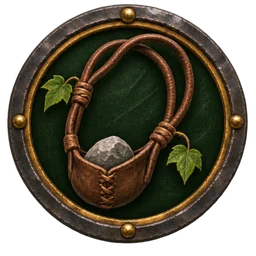
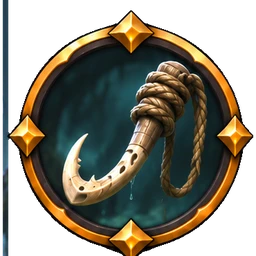
La Brecha: iconos del anzuelo, la cuerda y los ojos para Gollum
Claude-Session: https://claude.ai/code/session_016LDX8tPK4hmFFGShDH38QJ

diff --git a/CLAUDE.md b/CLAUDE.md
@@ -211,7 +211,7 @@ Juego web privado para 9 amigos (Arturo, Porru, Adrián, Carlos, Fer, Edo, Rodri
 - ATRÁS EN LA APP (16/11): MainActivity ya no usa el historial: pregunta a `window.brechaAtras()` (también con OnBackInvokedCallback en Android 13+); en partida o sala sale «¿Salir de la partida?», con una ventana abierta la cierra y en el menú pregunta «¿Salir de La Brecha?». Hay que REINSTALAR la APK.
 - DAÑO FÍSICO Y MÁGICO (16/11, como el LoL): cada héroe tiene `arm` (armadura) y `rm` (resistencia mágica) que crecen +3 / +1,5 por nivel; el daño se reduce ×100/(100+defensa) en `dana` (tipo `mag` → rm, `pura` → nada, lo demás → arm). Habilidades con `mag: true` (todas las de Gandalf) hacen tipo `mag` y crecen con `poder`/160 en vez de con el daño. Objetos nuevos: Manto de Lórien (rm), Tomo de Rivendel (poder), Báculo de los Istari, Narya, Velo de Galadriel; yelmo/escudo/mithril dan armadura en vez de `reduc`. Iconos de los objetos de magia provisionales (los de las habilidades de Gandalf). MANÁ (16/11, pedido de Arturo: «tiene que desaparecer con las habilidades»; antes se había dejado sin maná): cada héroe tiene `mana`/`crecM` en `HEROES` y cada habilidad su coste `mn` (referencia Lux y Darius); `stats()` da `mana` y `rmana` (3 + 0,3 por nivel al segundo; +12 % del máximo por segundo en la fuente; lleno al reaparecer; la Savia del huorn da más; las reliquias del Duelo devuelven un 20 %). `usaHab` no lanza sin maná y los bots lo respetan. Tomo de Rivendel, Báculo y Narya dan maná. En la foto van `mana` y `manaMax` (campos 38-39 de la fila del héroe). En pantalla: barra azul bajo la vida de cada héroe (`.bv .mn`), botón azulado si no llega (`.sinMana`) y aviso «No tienes maná suficiente». Prueba de equilibrio entre bots con la simulación del servidor: `node /tmp/t_bal.mjs A B n` (los bots casi no gastan el maná; a una persona que lance todo seguido se le acaba en unos 30 s). El botón de ataque de Gandalf (`ui/at_gandalf.webp`) venía con fondo blanco y cortado por la derecha: rehecho por ChatGPT el 16/11 (`tools/vado/pack18/at_gandalf_v2.png`, de frente y entero). Coste por rango como en el LoL (`costeMn(tipo, k, rk)`: básicas +10 % por rango, definitiva fija). Maná en FUCSIA (pedido de Arturo). `#vital` abajo en el centro: tu vida con números (roja y latiendo por debajo del 30 %) y tu maná; tu barra sobre la cabeza va más grande y con filo dorado (`.bv.yo`). PACK VADO 22 (16/11, originales en `tools/vado/pack22`): botella de maná (`ui/mana_vacia.webp` debajo y `ui/mana_llena.webp` encima, que se destapa de abajo arriba con `clip-path` entre `BOT_Y0` 39,7 % y `BOT_Y1` 87 %, medidos en el dibujo; número de maná sobre la botella; halo fucsia por debajo del 12 %) y marco de la barra de vida (`ui/vida_marco.webp`, proporción 4,88; la barra va en el hueco `.vH`: 13,6 %–86,3 % de ancho y 33,5 %–66,5 % de alto). El líquido no se mueve (dos imágenes fijas). Equilibrio entre bots (6 duelos por cruce, 16/11): orco 1-5 jinete y 0-6 enano, gandalf 6-0 enano, 1-5 elfo, 3-3 jinete y hobbit: el orco está flojo.
 - PARTIDA GUIADA (16/11, pedido de Arturo): botón `#bGuia` en el menú (etiqueta NUEVO hasta completarla, `vado.guia`). Es un Duelo contra la máquina con el Jinete, sin pantalla de elegir héroe, y el héroe rival pega un 45 % a héroes (`S.facil`, en `dana`). Cartel `#guia` con 9 pasos (`GUIA_PASOS`: moverse, aprender con el +, lanzar, maná, rematar 3 soldados, torre, BASE y Armería, curarse, cómo se gana); cada paso se cumple haciéndolo (`ok`) o por tiempo (`seg`); aro verde sobre el botón que toca (`guiaOjo`, clase `.guiaOjo`); «Saltar» la quita. `guiaPaso(v)` se llama desde `hud()`. Prueba: `/tmp/t_guia.py`. La tarjeta del Duelo ya no dice «2 derribos o la primera torre».
-- GOLLUM (16/11) = Rengar: Q `salto` Mordisco, W `suerte` ¡Mi tesoro!, E `linea` que aturde (Cuerda élfica), R `invis` Sombras de Moria; papel Asesino. MODELO 3D: `modelos/gollum.glb` = Rastrero de las Ciénagas (Pack Vado 24 WORK, 16/11, original en `tools/vado/pack24`; 41 huesos del hobbit KayKit, 9 clips, nodo `escala_140cm`). Siguen PROVISIONALES: retrato `r_hobbit` y copias de las imágenes del hobbit con nombre `gollum` (`splash_gollum`, `at_gollum`, `h_gollum_*`); ChatGPT se negó a dibujar a Gollum (parecido con contenido de terceros): el arte y el modelo son de una criatura ORIGINAL, el Rastrero de las Ciénagas (Pack Vado 24). El ART que llegó (16/11) era el Gollum de las películas: NO se usa; falta pedirlo otra vez como el Rastrero, y dentro del juego se sigue llamando «Gollum» (decisión de Arturo, 16/11). Entre bots pierde casi todo (2-2 contra el orco, 0-4 contra los demás, aun subido): los bots no juegan bien a un asesino de cerca; sin la pasiva de Rengar (saltar desde la hierba). La partida guiada lleva el medallón de Gamling (`ui/guia_gamling.webp`, original `tools/vado/pack23/gamling.png`).
+- GOLLUM (16/11) = Rengar: Q `salto` Mordisco, W `suerte` ¡Mi tesoro!, E `linea` que aturde (Cuerda élfica), R `invis` Sombras de Moria; papel Asesino. MODELO 3D: `modelos/gollum.glb` = Rastrero de las Ciénagas (Pack Vado 24 WORK, 16/11, original en `tools/vado/pack24`; 41 huesos del hobbit KayKit, 9 clips, nodo `escala_140cm`). Siguen PROVISIONALES: retrato `r_hobbit` y copias de las imágenes del hobbit con nombre `gollum` (`splash_gollum`, `at_gollum`, `h_gollum_*`); ChatGPT se negó a dibujar a Gollum (parecido con contenido de terceros): el arte y el modelo son de una criatura ORIGINAL, el Rastrero de las Ciénagas (Pack Vado 24). El ART que llegó (16/11, dos versiones; `tools/vado/pack24/arte_v2.png`) seguía siendo la cara del Gollum de las películas: de ahí SOLO se usan los iconos sin la criatura (anzuelo → `at_gollum`, cuerda → `h_gollum_e`, ojos en la niebla → `h_gollum_r`); retrato, splash, Q y W siguen provisionales; falta pedirlo otra vez como el Rastrero, y dentro del juego se sigue llamando «Gollum» (decisión de Arturo, 16/11). Entre bots pierde casi todo (2-2 contra el orco, 0-4 contra los demás, aun subido): los bots no juegan bien a un asesino de cerca; sin la pasiva de Rengar (saltar desde la hierba). La partida guiada lleva el medallón de Gamling (`ui/guia_gamling.webp`, original `tools/vado/pack23/gamling.png`).
 - PACK VADO 19/20 (16/11, originales en `tools/vado/pack19` y `pack20`): marcas de apuntado propias de cada héroe (`ui/ind_<heroe>_<tecla|alcance>.webp`, recortadas al dibujo; `IND_HEROE`, `marcaH` en juego.js, mezcla normal con opacidad 0,8; si falta una, la genérica) e iconos de los objetos de magia (`ui/obj_*.webp`; `ICO()` admite rutas). La Guillotina (`ejecuta`) también se apunta.
 - ARRASTRAR HABILIDADES (16/11, fallo grave encontrado al probar): `touch-action:manipulation` en `#mandos *` (puesto contra el zoom del iPhone) dejaba al navegador cancelar el arrastre (`pointercancel`) y las habilidades no se podían apuntar; ahora `#mandos button,#mandos button *` llevan `touch-action:none` y las imágenes de los mandos `pointer-events:none`.
 - MENÚ ANIMADO (16/11, Pack Vado 21, originales en `tools/vado/pack21`): `#mFondo` dentro de `#menu` con 8 capas (`ui/menu_{cielo,fondo,medio,niebla,pavesas,frente}.webp`) que se mueven solo con CSS (transform): cielo con zoom lento, fondo/medio/frente en paralaje, dos franjas de niebla que pasan, pavesas como tira de 16 fotogramas con `steps(15)` y `mix-blend-mode:screen`. `#menu{isolation:isolate}` + `#mFondo{z-index:-1}` para quedar debajo del contenido. Sin movimiento si el móvil pide «reducir movimiento».
